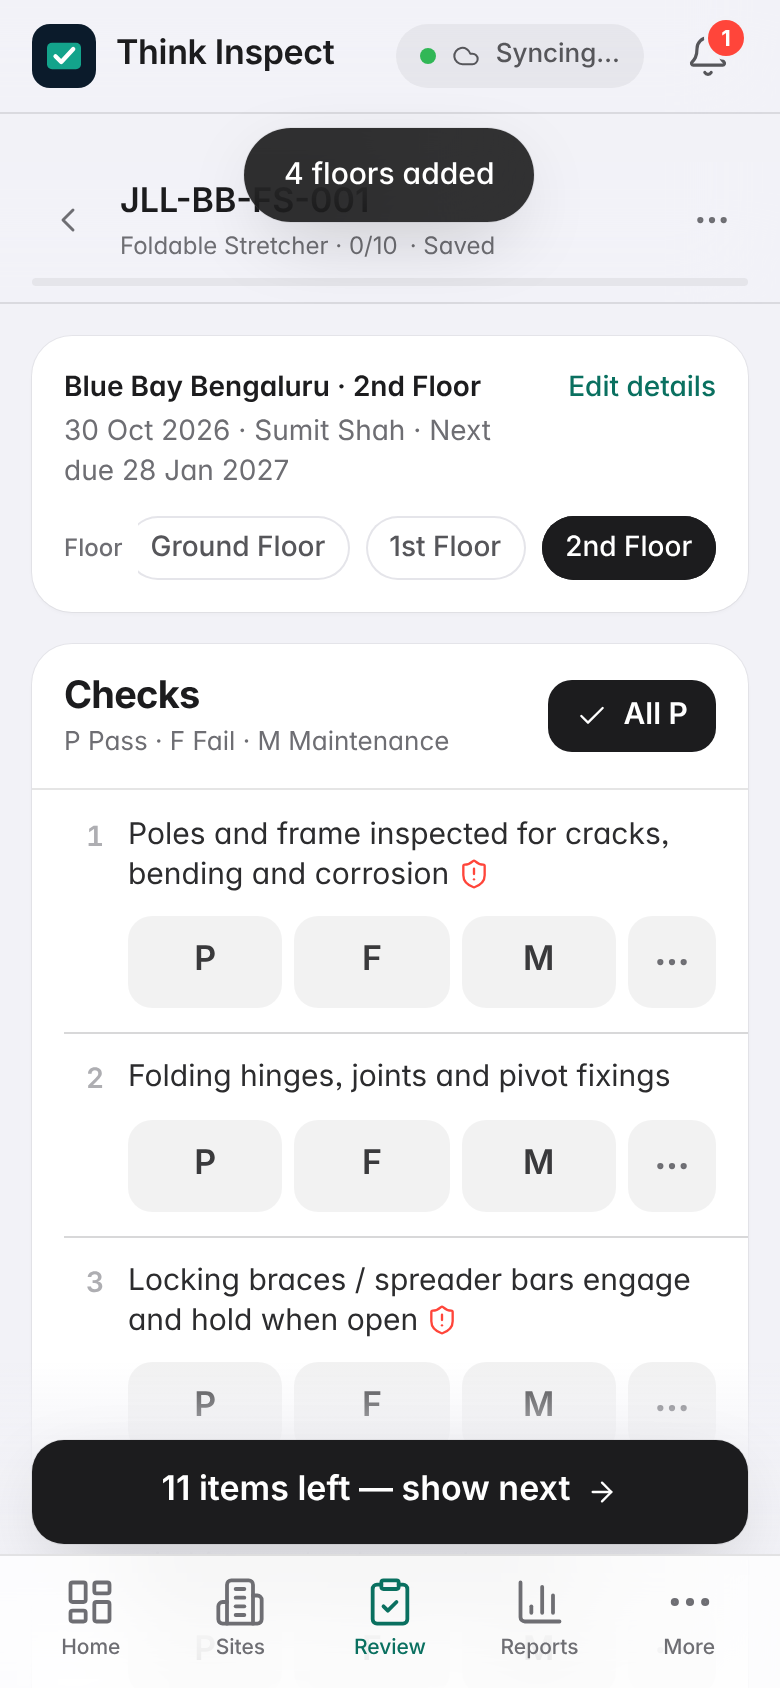
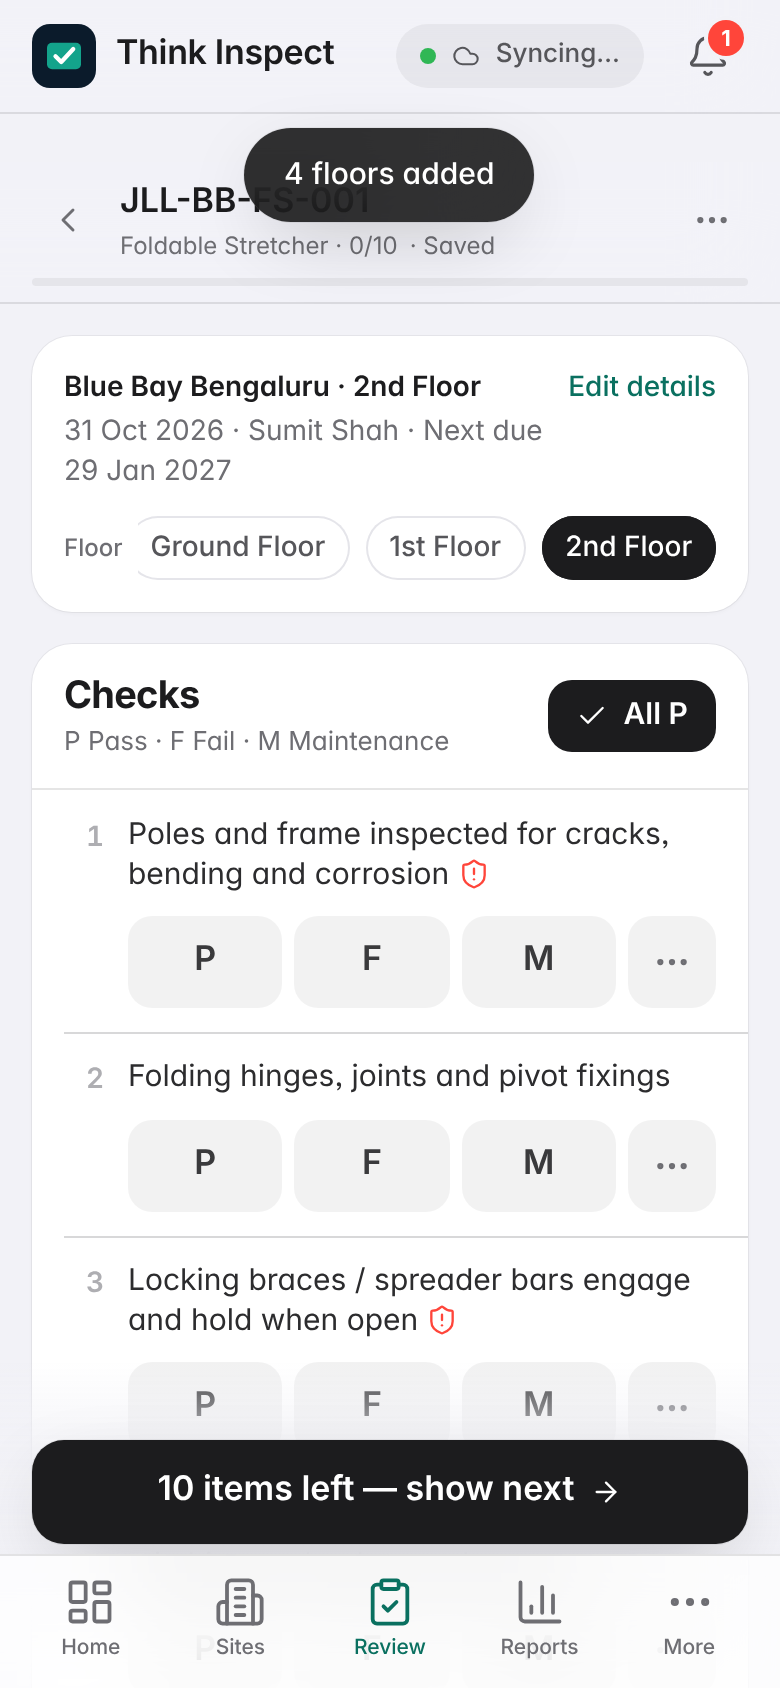
Functional test follows the checklist
The Functional / Load Test record is now gated by the checks: locked until
all checks are answered, not performed when any check is Fail, and open
only when every check is P or M (NA / RECT also count). Enforced by the
shared rules on both device and server; paper view and PDF show
"Not performed" when a check failed.

Claude-Session: https://claude.ai/code/session_01Qq5uC4SHCw8PoV6Zy1KHkW

diff --git a/client/src/pages/Inspection.tsx b/client/src/pages/Inspection.tsx
@@ -12,7 +12,7 @@ import {
 } from 'lucide-react';
 import {
   addDays, blocking, canEdit, DEFAULT_TEMPLATES, deriveResult, EQUIPMENT_LABELS, formatDate, formatDateTime, FUNCTIONAL_TEST_LABELS,
-  functionalTestBlockers, HEADER_FIELDS, RESULT_LABELS, STATUS_LABELS, validateInspection,
+  functionalTestGate, HEADER_FIELDS, RESULT_LABELS, STATUS_LABELS, validateInspection,
   type Asset, type CheckEntry, type CheckStatus, type ChecklistTemplate, type Inspection,
 } from '@think/shared';
 import { db } from '../lib/db.ts';
@@ -106,7 +106,7 @@ function Editor({ initial, template: t }: { initial: Inspection; template: Check
   const err = (path: string) => (showErrors ? issues.find((i) => i.path === path && i.severity === 'error')?.message : undefined);
   const derived = deriveResult(t, insp.checks, insp.functionalTest);
   const answered = insp.checks.filter((c) => c.status).length;
-  const blockers = functionalTestBlockers(insp.checks);
+  const gate = functionalTestGate(t, insp.checks);
   const h = insp.header;
 
   const setCheck = (no: number, patch: Partial<CheckEntry>) => update((d) => ({ ...d, checks: d.checks.map((c) => (c.no === no ? { ...c, ...patch } : c)) }));
@@ -240,29 +240,37 @@ function Editor({ initial, template: t }: { initial: Inspection; template: Check
             </div>
           </Card>
 
-          {/* Functional test */}
+          {/* Functional test: follows the checklist (locked → not performed if a check is Fail → open) */}
           <Card id="sec-test" className="p-4 sm:p-5">
-            <div className="flex flex-col gap-3 sm:flex-row sm:items-center sm:justify-between">
-              <div className="font-semibold">Functional test required?</div>
-              <div className="sm:w-56"><Segmented value={insp.functionalTest.required} onChange={(v) => update((d) => ({ ...d, functionalTest: { ...d.functionalTest, required: v } }))}
-                options={[{ value: 'yes', label: 'Yes' }, { value: 'no', label: 'No' }]} /></div>
-            </div>
-            {err('functionalTest.required') && <div className="mt-1 text-xs font-medium text-rose-600">{err('functionalTest.required')}</div>}
-            {insp.functionalTest.required === 'yes' && (
-              <div className="mt-4 grid gap-3">
-                <div className="grid gap-3 sm:grid-cols-2">
-                  <Field label={FUNCTIONAL_TEST_LABELS.method} error={err('functionalTest.method')}>
-                    <input className="input" list="test-methods" value={insp.functionalTest.method} onChange={(e) => update((d) => ({ ...d, functionalTest: { ...d.functionalTest, method: e.target.value } }))} />
-                    <datalist id="test-methods"><option value="As per manufacturer instructions" /><option value="Push and brake test on ramp with occupant" /><option value="Assemble, lock and lift test" /></datalist>
-                  </Field>
-                  <Field label={FUNCTIONAL_TEST_LABELS.observations} error={err('functionalTest.observations')}>
-                    <input className="input" value={insp.functionalTest.observations} onChange={(e) => update((d) => ({ ...d, functionalTest: { ...d.functionalTest, observations: e.target.value } }))} />
-                  </Field>
-                </div>
-                <Segmented size="lg" value={insp.functionalTest.result === 'na' ? null : insp.functionalTest.result} onChange={(v) => update((d) => ({ ...d, functionalTest: { ...d.functionalTest, result: v } }))}
-                  options={[{ value: 'pass', label: 'Pass', activeClass: STATUS_STYLE.P, disabled: blockers.length > 0 }, { value: 'fail', label: 'Fail', activeClass: STATUS_STYLE.F }]} />
-                {blockers.length > 0 && <div className="text-xs text-rose-700">Pass is locked because check {blockers.map((n) => `#${n}`).join(', ')} is F.</div>}
-                {err('functionalTest.result') && <div className="text-xs font-medium text-rose-600">{err('functionalTest.result')}</div>}
+            <div className="text-[19px] font-bold tracking-[-0.02em]">Functional test</div>
+            {gate.gate === 'locked' && (
+              <p className="mt-1 text-[15px] text-slate-500">Opens once all {t.checks.length} checks are answered. It can be recorded when every check is P or M.</p>
+            )}
+            {gate.gate === 'blocked' && (
+              <p className="mt-1 text-[15px] text-slate-500">Not performed: check {gate.failed.map((n) => `#${n}`).join(', ')} is Fail. Repair it and re-test.</p>
+            )}
+            {gate.gate === 'open' && (
+              <div className="mt-3">
+                <div className="mb-2 text-[15px] font-medium text-slate-700">Required by manufacturer / standard?</div>
+                <Segmented value={insp.functionalTest.required} onChange={(v) => update((d) => ({ ...d, functionalTest: { ...d.functionalTest, required: v } }))}
+                  options={[{ value: 'yes', label: 'Yes' }, { value: 'no', label: 'No' }]} />
+                {err('functionalTest.required') && <div className="mt-1 text-xs font-medium text-rose-600">{err('functionalTest.required')}</div>}
+                {insp.functionalTest.required === 'yes' && (
+                  <div className="mt-4 grid gap-3">
+                    <div className="grid gap-3 sm:grid-cols-2">
+                      <Field label={FUNCTIONAL_TEST_LABELS.method} error={err('functionalTest.method')}>
+                        <input className="input" list="test-methods" value={insp.functionalTest.method} onChange={(e) => update((d) => ({ ...d, functionalTest: { ...d.functionalTest, method: e.target.value } }))} />
+                        <datalist id="test-methods"><option value="As per manufacturer instructions" /><option value="Push and brake test on ramp with occupant" /><option value="Assemble, lock and lift test" /></datalist>
+                      </Field>
+                      <Field label={FUNCTIONAL_TEST_LABELS.observations} error={err('functionalTest.observations')}>
+                        <input className="input" value={insp.functionalTest.observations} onChange={(e) => update((d) => ({ ...d, functionalTest: { ...d.functionalTest, observations: e.target.value } }))} />
+                      </Field>
+                    </div>
+                    <Segmented size="lg" value={insp.functionalTest.result === 'na' ? null : insp.functionalTest.result} onChange={(v) => update((d) => ({ ...d, functionalTest: { ...d.functionalTest, result: v } }))}
+                      options={[{ value: 'pass', label: 'Pass', activeClass: STATUS_STYLE.P }, { value: 'fail', label: 'Fail', activeClass: STATUS_STYLE.F }]} />
+                    {err('functionalTest.result') && <div className="text-xs font-medium text-rose-600">{err('functionalTest.result')}</div>}
+                  </div>
+                )}
               </div>
             )}
           </Card>

diff --git a/shared/src/rules.ts b/shared/src/rules.ts
@@ -52,8 +52,10 @@ export function deriveResult(t: ChecklistTemplate, checks: CheckEntry[], ft: Fun
     if (e.status === 'RECT') rect.push(item.no);
     if (e.status === 'M') maint.push(item.no);
   }
-  const testFailed = ft.required === 'yes' && ft.result === 'fail';
-  if (ft.required === null || (ft.required === 'yes' && !ft.result)) complete = false;
+  // The functional test only exists once every check is answered and none is Fail (see functionalTestGate).
+  const gate = functionalTestGate(t, checks).gate;
+  const testFailed = gate === 'open' && ft.required === 'yes' && ft.result === 'fail';
+  if (gate === 'open' && (ft.required === null || (ft.required === 'yes' && !ft.result))) complete = false;
   const defects = failed.length > 0 || rect.length > 0 || testFailed;
   return {
     allPassed: complete && !defects,
@@ -81,19 +83,35 @@ export function applyDerivedResult(t: ChecklistTemplate, insp: Pick<Inspection, 
   };
 }
 
-/** The functional test may only be passed when no check is a Fail (Maintenance is allowed). */
 export function functionalTestBlockers(checks: CheckEntry[]): number[] {
   return checks.filter((c) => c.status === 'F').map((c) => c.no);
 }
 
+export type TestGate = 'locked' | 'blocked' | 'open';
+
 /**
- * When "Test required" is No the remaining test fields do not apply.
- * A Pass recorded before a check was failed is cleared so it must be re-decided.
+ * The Functional / Load Test record follows the checklist:
+ *  - locked:  some check is still unanswered, so the test cannot be recorded yet
+ *  - blocked: a check is Fail, so the test is not performed (the unit already fails)
+ *  - open:    every check is answered and none is Fail (P, M, NA or RECT), so the test Pass / Fail applies
  */
-export function normalizeFunctionalTest(ft: FunctionalTest, checks: CheckEntry[] = []): FunctionalTest {
+export function functionalTestGate(t: ChecklistTemplate, checks: CheckEntry[]): { gate: TestGate; failed: number[] } {
+  const failed = functionalTestBlockers(checks);
+  if (failed.length) return { gate: 'blocked', failed };
+  const allAnswered = t.checks.every((i) => checks.find((c) => c.no === i.no)?.status);
+  return { gate: allAnswered ? 'open' : 'locked', failed };
+}
+
+/**
+ * Keeps the test record consistent with the gate. When a check is Fail the test is "not performed" (recorded as
+ * Not applicable, with no Yes/No answer). When "Test required" is No the remaining test fields do not apply.
+ */
+export function normalizeFunctionalTest(ft: FunctionalTest, checks: CheckEntry[], t: ChecklistTemplate): FunctionalTest {
+  const { gate } = functionalTestGate(t, checks);
+  if (gate === 'blocked') return { ...ft, required: null, result: 'na', specifiedLoadKg: null, actualLoadKg: null };
+  if (gate === 'open' && ft.required === null && ft.result === 'na') return { ...ft, result: null }; // the check that failed was corrected
   if (ft.required === 'no') return { ...ft, result: 'na', specifiedLoadKg: null, actualLoadKg: null };
   if (ft.required === 'yes' && ft.result === 'na') return { ...ft, result: null };
-  if (ft.result === 'pass' && functionalTestBlockers(checks).length) return { ...ft, result: null };
   return ft;
 }
 
@@ -130,15 +148,14 @@ export function validateInspection(t: ChecklistTemplate, insp: Inspection, forSu
   }
 
   const ft = insp.functionalTest;
-  if (forSubmit && !ft.required) err('functionalTest.required', 'Answer Yes or No');
-  if (ft.required === 'yes') {
-    if (forSubmit && !ft.method.trim()) err('functionalTest.method', 'Required when a test is required');
-    if (forSubmit && !ft.observations.trim()) err('functionalTest.observations', 'Record the actual result');
-    if (forSubmit && (!ft.result || ft.result === 'na')) err('functionalTest.result', 'Select Pass or Fail');
-    if (ft.result === 'fail' && !ft.observations.trim()) err('functionalTest.observations', 'Describe the failure');
-    const blockers = functionalTestBlockers(insp.checks);
-    if (ft.result === 'pass' && blockers.length)
-      err('functionalTest.result', `Cannot pass the functional test while check ${blockers.map((n) => `#${n}`).join(', ')} is Fail`);
+  if (functionalTestGate(t, insp.checks).gate === 'open') {
+    if (forSubmit && !ft.required) err('functionalTest.required', 'Answer Yes or No');
+    if (ft.required === 'yes') {
+      if (forSubmit && !ft.method.trim()) err('functionalTest.method', 'Required when a test is required');
+      if (forSubmit && !ft.observations.trim()) err('functionalTest.observations', 'Record the actual result');
+      if (forSubmit && (!ft.result || ft.result === 'na')) err('functionalTest.result', 'Select Pass or Fail');
+      if (ft.result === 'fail' && !ft.observations.trim()) err('functionalTest.observations', 'Describe the failure');
+    }
   }
 
   const d = deriveResult(t, insp.checks, ft);

diff --git a/shared/src/rules.test.ts b/shared/src/rules.test.ts
@@ -1,7 +1,7 @@
 import { test } from 'node:test';
 import assert from 'node:assert/strict';
 import {
-  addDays, assetAfterInspection, blocking, DEFAULT_TEMPLATES, deriveResult, emptyChecks, emptyFunctionalTest,
+  addDays, assetAfterInspection, blocking, DEFAULT_TEMPLATES, deriveResult, emptyChecks, emptyFunctionalTest, functionalTestGate,
   normalizeFunctionalTest, validateInspection, type Asset, type CheckStatus, type Inspection,
 } from './index.ts';
 
@@ -34,19 +34,48 @@ test('Fail and Maintenance and Rectified need a remark', () => {
   }
 });
 
-test('functional test cannot pass when any check is Fail, but can with Maintenance', () => {
-  const failing = make({ 4: 'F' }, { 4: 'Grip torn' });
-  failing.functionalTest = { ...failing.functionalTest, required: 'yes', method: 'Push test', observations: 'ok', result: 'pass' };
-  failing.result.correctiveActionRef = 'CAR-1';
-  assert.ok(blocking(validateInspection(t, failing)).some((e) => e.path === 'functionalTest.result'));
-  assert.equal(normalizeFunctionalTest(failing.functionalTest, failing.checks).result, null);
+test('functional test: locked until every check is answered', () => {
+  const insp = make({});
+  insp.checks[4].status = null; // one check still unanswered
+  assert.equal(functionalTestGate(t, insp.checks).gate, 'locked');
+  // nothing about the test is asked yet, so only the unanswered check blocks submission
+  assert.deepEqual(blocking(validateInspection(t, insp)).map((e) => e.path), ['checks.5.status']);
+});
 
+test('functional test: not performed when any check is Fail', () => {
+  const failing = make({ 4: 'F' }, { 4: 'Grip torn' });
+  failing.functionalTest = { ...failing.functionalTest, required: 'yes', method: 'Push test', observations: 'ok', result: 'pass' }; // stale entry
+  assert.equal(functionalTestGate(t, failing.checks).gate, 'blocked');
+  const n = normalizeFunctionalTest(failing.functionalTest, failing.checks, t);
+  assert.equal(n.required, null);
+  assert.equal(n.result, 'na');
+  failing.functionalTest = n;
+  failing.result.correctiveActionRef = 'CAR-1';
+  assert.deepEqual(blocking(validateInspection(t, failing)), []); // can be submitted without the test
+  assert.equal(deriveResult(t, failing.checks, failing.functionalTest).testFailed, false);
+});
+
+test('functional test: opens when all checks are P or M, and then Pass / Fail applies', () => {
   const maint = make({ 4: 'M' }, { 4: 'Grip worn — replace at next service' });
+  assert.equal(functionalTestGate(t, maint.checks).gate, 'open');
+  maint.functionalTest = { ...emptyFunctionalTest() }; // answer still missing
+  assert.ok(blocking(validateInspection(t, maint)).some((e) => e.path === 'functionalTest.required'));
   maint.functionalTest = { ...maint.functionalTest, required: 'yes', method: 'Push test', observations: 'ok', result: 'pass' };
   assert.deepEqual(blocking(validateInspection(t, maint)), []);
   const d = deriveResult(t, maint.checks, maint.functionalTest);
   assert.equal(d.defectsIdentified, false);
   assert.deepEqual(d.maintenanceChecks, [4]);
+  // a failed test (checks all fine) takes the unit out of service
+  maint.functionalTest = { ...maint.functionalTest, result: 'fail', observations: 'Slipped on ramp' };
+  assert.equal(deriveResult(t, maint.checks, maint.functionalTest).outOfService, true);
+});
+
+test('functional test: a corrected Fail re-opens the test', () => {
+  const insp = make({ 4: 'F' }, { 4: 'x' });
+  insp.functionalTest = normalizeFunctionalTest(insp.functionalTest, insp.checks, t);
+  insp.checks[3].status = 'P';
+  const n = normalizeFunctionalTest(insp.functionalTest, insp.checks, t);
+  assert.equal(n.result, null); // must be decided again
 });
 
 test('safety-critical fail (wheel locks) takes the asset out of service and needs a CAR', () => {

diff --git a/client/src/lib/pdf.ts b/client/src/lib/pdf.ts
@@ -152,7 +152,7 @@ function drawCertificate(doc: jsPDF, insp: Inspection, ctx: PackContext) {
   const tiles: [string, string, [number, number, number]][] = [
     ['Pass', String(counts.P), GREEN], ['Fail', String(counts.F), counts.F ? RED : MUTED], ['Maintenance', String(counts.M), counts.M ? [3, 105, 161] : MUTED], ['N/A', String(counts.NA), MUTED],
     ['Rectified', String(counts.RECT), counts.RECT ? AMBER : MUTED],
-    ['Functional test', insp.functionalTest.required === 'no' ? 'Not req.' : insp.functionalTest.result === 'pass' ? 'Pass' : insp.functionalTest.result === 'fail' ? 'Fail' : '—',
+    ['Functional test', insp.functionalTest.required === 'no' ? 'Not req.' : insp.functionalTest.required === null && insp.functionalTest.result === 'na' ? 'Not run' : insp.functionalTest.result === 'pass' ? 'Pass' : insp.functionalTest.result === 'fail' ? 'Fail' : '—',
       insp.functionalTest.result === 'fail' ? RED : INK],
   ];
   const tw = CW / tiles.length;
@@ -270,7 +270,7 @@ function drawChecklist(doc: jsPDF, insp: Inspection, ctx: PackContext) {
   x = checkbox(doc, x - 2, y + frh / 2 + 1.3, ft.required === 'no', 'No', 2.8);
   doc.setFont('helvetica', 'normal'); doc.text(`Reference: ${ft.reference || ''}`, x, y + frh / 2 + 1.2);
   y += frh;
-  const na = ft.required === 'no' ? 'N/A — not required' : '';
+  const na = ft.required === 'no' ? 'N/A — not required' : ft.required === null && ft.result === 'na' ? 'Not performed — a check failed' : '';
   kvRow(doc, MX, y, flw, fvw, FUNCTIONAL_TEST_LABELS.method, ft.method || na, frh); y += frh;
   kvRow(doc, MX, y, flw, fvw, FUNCTIONAL_TEST_LABELS.criteria,
     [ft.criteria, ft.specifiedLoadKg != null ? `${ft.specifiedLoadKg} kg` : ''].filter(Boolean).join(' · ') || na, frh); y += frh;

diff --git a/client/src/components/PaperView.tsx b/client/src/components/PaperView.tsx
@@ -58,7 +58,7 @@ export function PaperView({ insp, template }: { insp: Inspection; template: Chec
         <tbody>
           <tr><th className="w-[38%] border border-slate-500 px-2 py-1 text-left">{FUNCTIONAL_TEST_LABELS.required}</th>
             <td className="border border-slate-500 px-2 py-1"><span className="flex flex-wrap gap-4"><Box on={ft.required === 'yes'}>Yes</Box><Box on={ft.required === 'no'}>No</Box><span>Reference: {ft.reference}</span></span></td></tr>
-          <tr><th className="border border-slate-500 px-2 py-1 text-left">{FUNCTIONAL_TEST_LABELS.method}</th><td className="border border-slate-500 px-2 py-1">{ft.method}</td></tr>
+          <tr><th className="border border-slate-500 px-2 py-1 text-left">{FUNCTIONAL_TEST_LABELS.method}</th><td className="border border-slate-500 px-2 py-1">{ft.method || (ft.required === null && ft.result === 'na' ? 'Not performed — a check failed' : '')}</td></tr>
           <tr><th className="border border-slate-500 px-2 py-1 text-left">{FUNCTIONAL_TEST_LABELS.criteria}</th><td className="border border-slate-500 px-2 py-1">{[ft.criteria, ft.specifiedLoadKg != null && `${ft.specifiedLoadKg} kg`].filter(Boolean).join(' · ')}</td></tr>
           <tr><th className="border border-slate-500 px-2 py-1 text-left">{FUNCTIONAL_TEST_LABELS.observations}</th><td className="border border-slate-500 px-2 py-1">{[ft.observations, ft.actualLoadKg != null && `Applied ${ft.actualLoadKg} kg`].filter(Boolean).join(' · ')}</td></tr>
           <tr><th className="border border-slate-500 px-2 py-1 text-left">{FUNCTIONAL_TEST_LABELS.result}</th>

diff --git a/client/src/lib/store.ts b/client/src/lib/store.ts
@@ -101,7 +101,7 @@ export async function saveInspection(next: Inspection, user: User, extraEvent?: 
   if (!prev) throw new Error('Inspection not found on this device');
   if (prev.status === 'finalized') throw new Error('This inspection is finalised and locked');
   const t = await templateFor(next.templateId);
-  const functionalTest = normalizeFunctionalTest(next.functionalTest, next.checks);
+  const functionalTest = normalizeFunctionalTest(next.functionalTest, next.checks, t);
   let doc: Inspection = { ...next, functionalTest, updatedAt: new Date().toISOString() };
   doc.result = applyDerivedResult(t, doc);
   doc.events = diffEvents(prev, doc, user);

diff --git a/docs/ASSUMPTIONS.md b/docs/ASSUMPTIONS.md
@@ -7,8 +7,8 @@ Each item names the decision taken and where to change it.
    - **F, M and RECT require a remark.**
    - M keeps the asset in service. The certificate reads "Fit for use — maintenance advised".
    - RECT counts as a defect that was identified and fixed on site.
-2. **Functional test Pass rule (client instruction).** The functional test can only be marked Pass when **no check is F**. M, NA and RECT do not block a Pass. If a check is changed to F after a Pass was recorded, the Pass is cleared and must be re-decided. This is enforced on the device and on the server.
-3. **"Test required by manufacturer / standard?"** This question is asked every time. If the answer is **No**, Pass/Fail is recorded as *Not applicable*. The wheelchair sample has "No" marked and also "Fail ✗ puncher"; the defect belongs against the check items, so the app records it there.
+2. **The functional test follows the checklist (client instruction).** It is locked until every check is answered. If any check is Fail it is not performed (recorded as Not applicable, and the inspection can be submitted without it). It opens only when every check is P or M (NA or Rectified also count), and then Pass / Fail applies. The rule is enforced on the device and on the server.
+3. **"Test required by manufacturer / standard?"** Once the test opens, this Yes / No question is asked first. If the answer is No, Pass / Fail is recorded as Not applicable.
 4. **Interval.** Inspections are **quarterly: next due = inspection date + 90 days** for all four types, as written on the wheelchair form and confirmed by the client. The interval is configurable per template.
 5. **Re-test window.** The default is 7 days (configurable per template). A re-test is a full inspection: a clean re-test clears open defects, restores service and resets the due date.
 6. **Safety-critical items** take the asset out of service on Fail:
